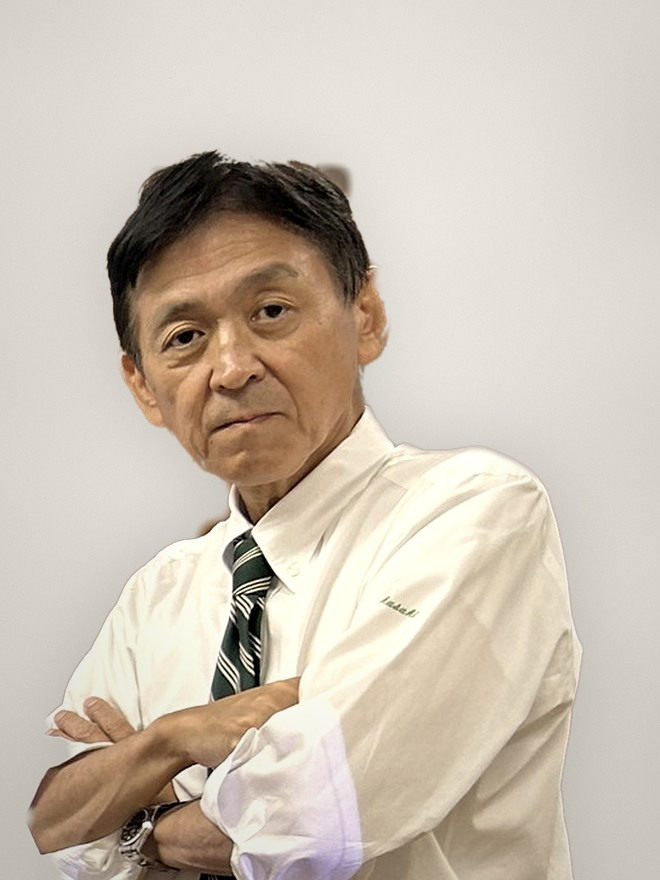
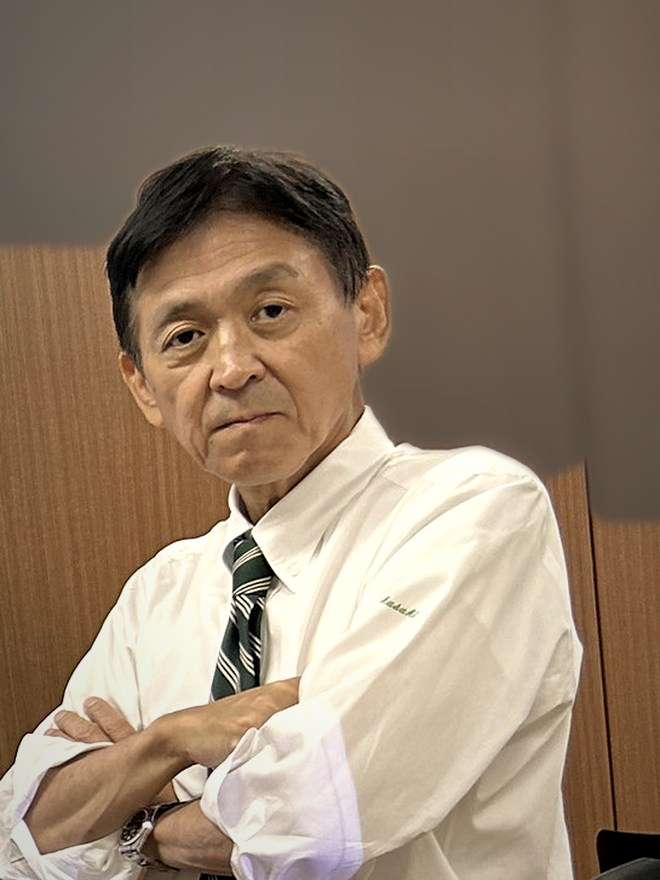
写真のスタジオ背景を取り消し、元の背景に戻した
3e2fdaa の背景差し替えが不自然だったため、8d14640 の状態に戻す。
三枚とも撮ったままの背景・カラー。構図と色調の調整は残っている。

diff --git a/office.html b/office.html
@@ -90,7 +90,7 @@
 
     <article class="story">
       <figure class="prof__fig story__fig" data-reveal>
-        <div class="prof__frame"><img src="assets/img/gen1.jpg?v=b22a94dd" alt="初代 髙﨑静夫" width="660" height="880" loading="lazy"></div>
+        <div class="prof__frame"><img src="assets/img/gen1.jpg?v=e8633a19" alt="初代 髙﨑静夫" width="660" height="880" loading="lazy"></div>
         <figcaption class="prof__cap">初代 髙﨑 静夫</figcaption>
       </figure>
       <div data-reveal style="--i:1">
@@ -114,7 +114,7 @@
 
     <article class="story">
       <figure class="prof__fig story__fig" data-reveal>
-        <div class="prof__frame"><img src="assets/img/daihyo.jpg?v=051e7b6d" alt="二代 髙﨑英彦（税理士・行政書士）" width="660" height="880" loading="lazy"></div>
+        <div class="prof__frame"><img src="assets/img/daihyo.jpg?v=6b4b142d" alt="二代 髙﨑英彦（税理士・行政書士）" width="660" height="880" loading="lazy"></div>
         <figcaption class="prof__cap">二代 髙﨑 英彦（税理士・行政書士）</figcaption>
       </figure>
       <div data-reveal style="--i:1">
@@ -138,7 +138,7 @@
 
     <article class="story">
       <figure class="prof__fig story__fig" data-reveal>
-        <div class="prof__frame"><img src="assets/img/gen3.jpg?v=4ec21f0b" alt="三代 髙﨑伸崇" width="660" height="880" loading="lazy"></div>
+        <div class="prof__frame"><img src="assets/img/gen3.jpg?v=bed90cb8" alt="三代 髙﨑伸崇" width="660" height="880" loading="lazy"></div>
         <figcaption class="prof__cap">三代 髙﨑 伸崇</figcaption>
       </figure>
       <div data-reveal style="--i:1">

diff --git a/index.html b/index.html
@@ -327,7 +327,7 @@
   <div class="wrap">
     <div class="prof">
       <figure class="prof__fig" data-reveal>
-        <div class="prof__frame"><img src="assets/img/daihyo.jpg?v=051e7b6d" alt="所長 髙﨑英彦（税理士・行政書士）" width="660" height="880"></div>
+        <div class="prof__frame"><img src="assets/img/daihyo.jpg?v=6b4b142d" alt="所長 髙﨑英彦（税理士・行政書士）" width="660" height="880"></div>
         <figcaption class="prof__cap">所長 髙﨑 英彦（税理士・行政書士）</figcaption>
       </figure>
 
